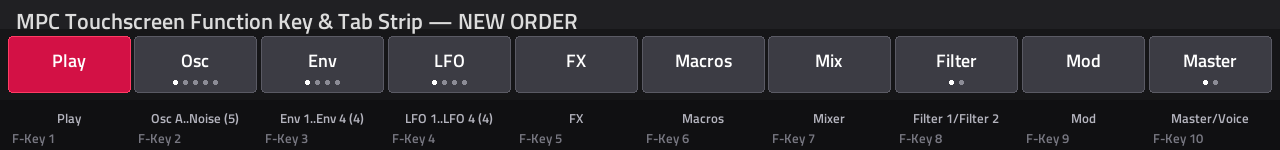
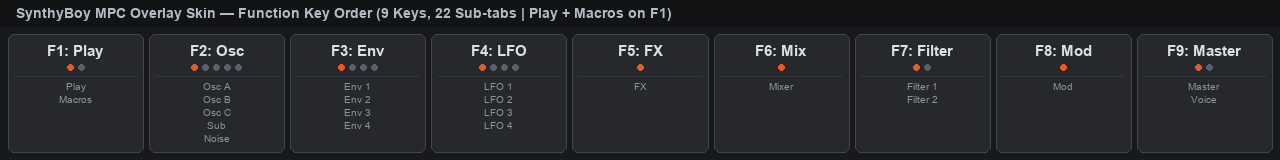
docs(overlay): update tab strip preview image for 9-key layout
- Regenerate tabstrip-new-order.png showing 9 function keys with Play + Macros
  on key 1, sub-tab count indicators, and 22 sub-tab names in exact order.
- Add scripts/render-new-tabstrip.py rendering utility.

diff --git a/scripts/render-new-tabstrip.py b/scripts/render-new-tabstrip.py
@@ -1,0 +1,103 @@
+#!/usr/bin/env python3
+# Draw the MPC overlay function key and sub-tab strip showing the updated order.
+# Copyright (C) 2026 Safian Szabolcs
+# SPDX-License-Identifier: AGPL-3.0-or-later
+
+import json
+from pathlib import Path
+from PIL import Image, ImageDraw, ImageFont
+
+ROOT = Path(__file__).resolve().parent.parent
+OUT = ROOT / "tabstrip-new-order.png"
+
+# MPC Landscape resolution
+WIDTH = 1280
+HEIGHT = 160
+
+BG_COLOR = (24, 25, 28, 255)
+KEY_BG = (38, 40, 44, 255)
+KEY_BORDER = (65, 68, 75, 255)
+KEY_TEXT = (220, 224, 230, 255)
+KEY_SUB_TEXT = (140, 145, 155, 255)
+DOT_ACTIVE = (230, 90, 40, 255)
+DOT_INACTIVE = (90, 95, 105, 255)
+HEADER_TEXT = (180, 185, 195, 255)
+
+FN_KEYS = [
+    {"label": "Play", "subtabs": ["Play", "Macros"]},
+    {"label": "Osc", "subtabs": ["Osc A", "Osc B", "Osc C", "Sub", "Noise"]},
+    {"label": "Env", "subtabs": ["Env 1", "Env 2", "Env 3", "Env 4"]},
+    {"label": "LFO", "subtabs": ["LFO 1", "LFO 2", "LFO 3", "LFO 4"]},
+    {"label": "FX", "subtabs": ["FX"]},
+    {"label": "Mix", "subtabs": ["Mixer"]},
+    {"label": "Filter", "subtabs": ["Filter 1", "Filter 2"]},
+    {"label": "Mod", "subtabs": ["Mod"]},
+    {"label": "Master", "subtabs": ["Master", "Voice"]},
+]
+
+img = Image.new("RGBA", (WIDTH, HEIGHT), BG_COLOR)
+draw = ImageDraw.Draw(img)
+
+# Try loading system font, fallback to default
+try:
+    font_title = ImageFont.truetype("/System/Library/Fonts/Supplemental/Arial Bold.ttf", 14)
+    font_key = ImageFont.truetype("/System/Library/Fonts/Supplemental/Arial Bold.ttf", 15)
+    font_sub = ImageFont.truetype("/System/Library/Fonts/Supplemental/Arial.ttf", 10)
+except Exception:
+    font_title = ImageFont.load_default()
+    font_key = ImageFont.load_default()
+    font_sub = ImageFont.load_default()
+
+# Header banner
+draw.rectangle([(0, 0), (WIDTH, 26)], fill=(18, 19, 21, 255))
+draw.text((16, 5), "SynthyBoy MPC Overlay Skin — Function Key Order (9 Keys, 22 Sub-tabs | Play + Macros on F1)", fill=HEADER_TEXT, font=font_title)
+
+# Draw 9 function keys
+margin_x = 8
+spacing = 6
+total_w = WIDTH - 2 * margin_x
+key_w = (total_w - (len(FN_KEYS) - 1) * spacing) / len(FN_KEYS)
+
+key_y = 34
+key_h = 118
+
+for i, key in enumerate(FN_KEYS):
+    kx = margin_x + i * (key_w + spacing)
+    ky = key_y
+    kr = kx + key_w
+    kb = ky + key_h
+    
+    # Key button background & border
+    draw.rounded_rectangle([(kx, ky), (kr, kb)], radius=6, fill=KEY_BG, outline=KEY_BORDER, width=1)
+    
+    # Main function key label (F1..F9)
+    f_num = f"F{i+1}: {key['label']}"
+    bbox = draw.textbbox((0, 0), f_num, font=font_key)
+    tw = bbox[2] - bbox[0]
+    draw.text((kx + (key_w - tw) / 2, ky + 8), f_num, fill=KEY_TEXT, font=font_key)
+    
+    # Sub-tab count dots indicator
+    num_subs = len(key["subtabs"])
+    dot_r = 3
+    dot_gap = 5
+    dots_total_w = num_subs * (2 * dot_r) + (num_subs - 1) * dot_gap
+    start_dot_x = kx + (key_w - dots_total_w) / 2
+    dot_y = ky + 30
+    for d in range(num_subs):
+        dx = start_dot_x + d * (2 * dot_r + dot_gap)
+        color = DOT_ACTIVE if d == 0 else DOT_INACTIVE
+        draw.ellipse([(dx, dot_y), (dx + 2 * dot_r, dot_y + 2 * dot_r)], fill=color)
+        
+    # Divider line inside button
+    draw.line([(kx + 6, ky + 42), (kr - 6, ky + 42)], fill=(50, 53, 58, 255), width=1)
+    
+    # Sub-tab names listing
+    sub_y = ky + 46
+    for sub in key["subtabs"]:
+        s_bbox = draw.textbbox((0, 0), sub, font=font_sub)
+        stw = s_bbox[2] - s_bbox[0]
+        draw.text((kx + (key_w - stw) / 2, sub_y), sub, fill=KEY_SUB_TEXT, font=font_sub)
+        sub_y += 13
+
+img.save(OUT, "PNG")
+print(f"Wrote {OUT}")
